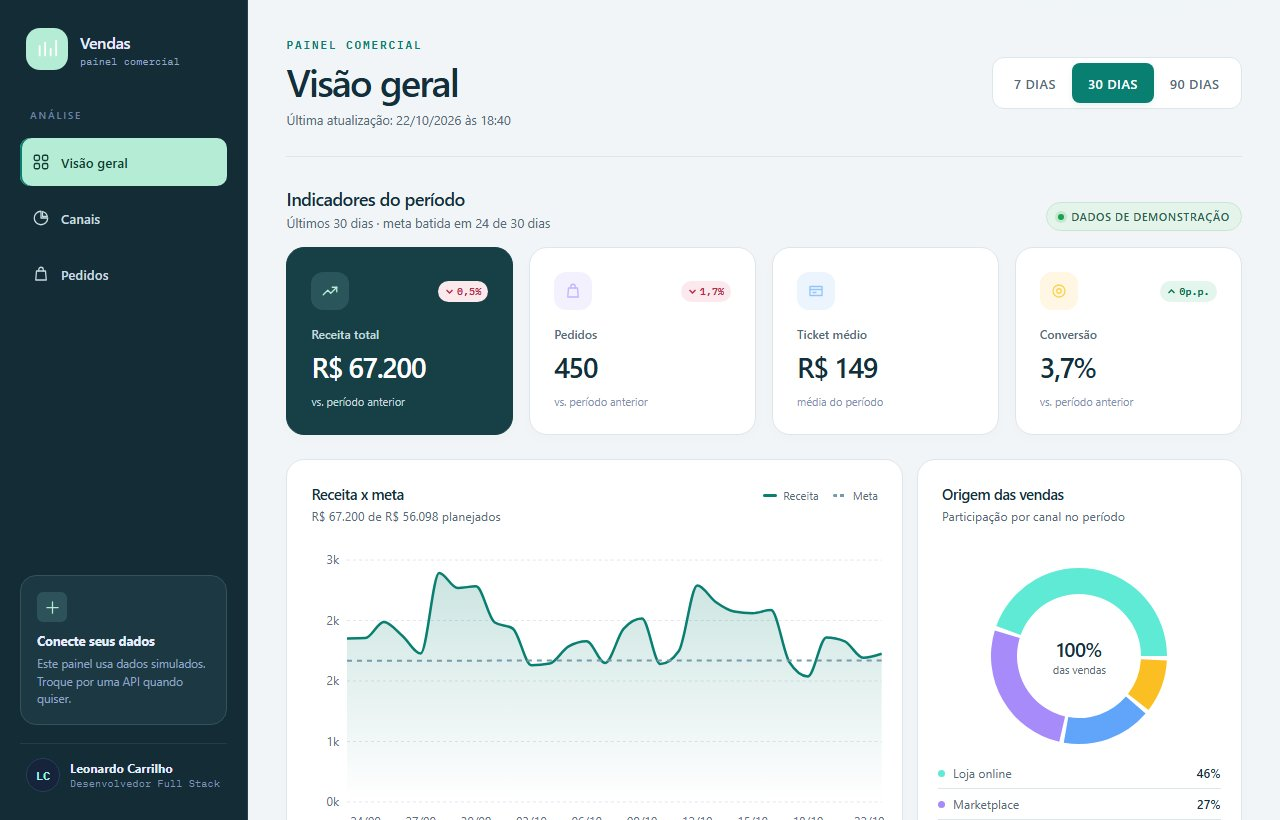
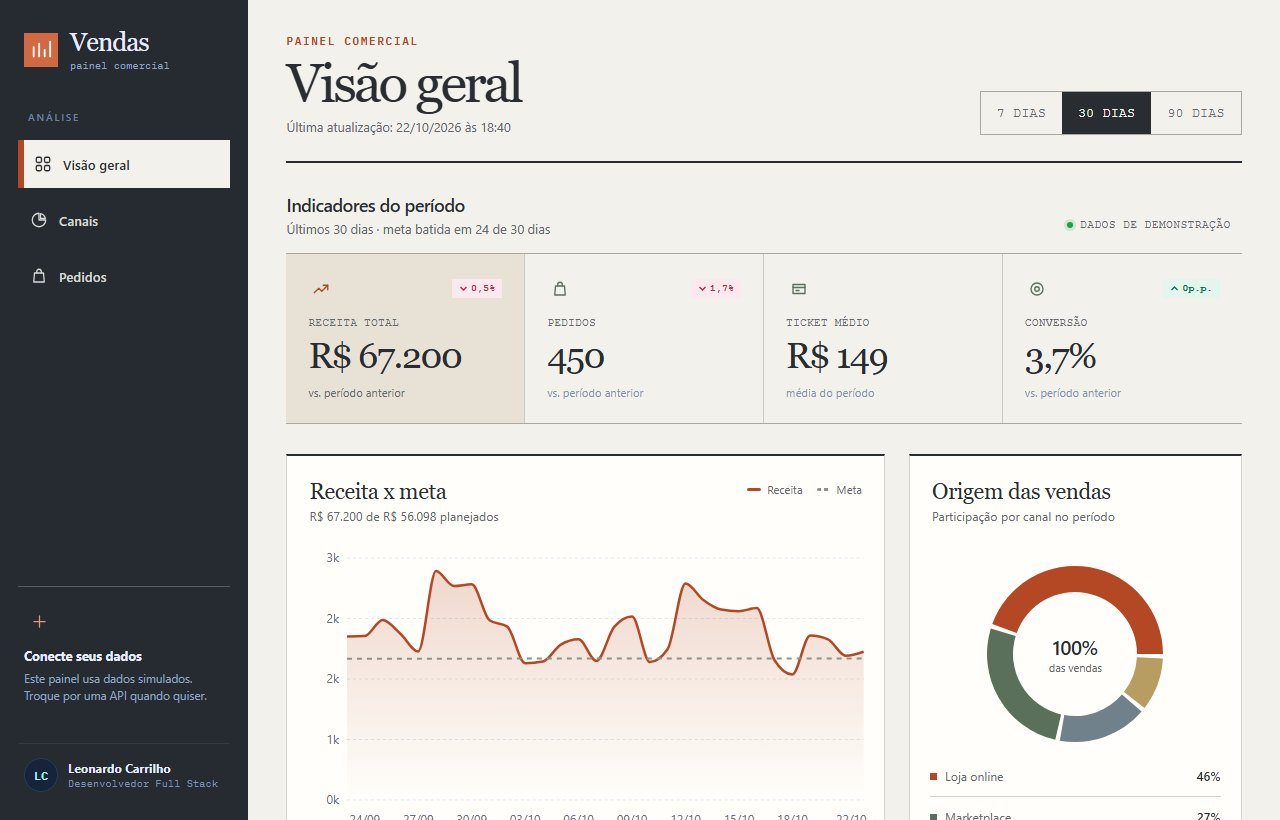
feat: criar identidade editorial própria
Refs #8

diff --git a/src/editorial.css b/src/editorial.css
@@ -1,0 +1,60 @@
+/* Editorial portfolio: paper, ink and oversized serif typography. */
+:root { --brand:#234d3c; --brand-dark:#163b2b; --bg-soft:#e7e7d9; --line:#bdbfb0; --muted:#5c655b; --focus-ring:#a43d28; }
+body { background:#f3f0e6; color:#252c25; }
+.site-nav,.site-nav.is-scrolled { position:sticky; inset:0 auto auto; width:100%; background:#f3f0e6f5; border:0; border-bottom:1px solid #bec2b6; border-radius:0; box-shadow:none; }
+.brand-mark { background:transparent; color:#234d3c; border:1px solid #234d3c; border-radius:0; }
+.site-nav .btn-brand { border-radius:0; background:transparent; color:#234d3c; border-bottom:1px solid; }
+.intro { background:#f3f0e6; color:#252c25; padding:68px 0 0; border-radius:0; overflow:visible; }
+.intro-layout { grid-template-columns:minmax(0,1.25fr) minmax(0,.8fr); align-items:end; gap:clamp(32px,5vw,80px); padding-bottom:56px; }
+.intro-status { border:0; border-radius:0; padding:0; background:none; color:#52614e; font-family:monospace; font-size:.7rem; text-transform:uppercase; letter-spacing:.06em; }
+.intro-name { margin:38px 0 24px; font-family:monospace; font-size:.75rem; text-transform:uppercase; letter-spacing:.08em; }
+.intro-name span { color:#596555; }
+.intro h1 { color:#27342a; font-family:Georgia,"Times New Roman",serif; font-weight:400; font-size:clamp(3.3rem,6.8vw,6.5rem); line-height:.98; letter-spacing:-.065em; text-wrap:normal; }
+.intro h1 span { color:#234d3c; font-style:italic; }
+.intro-description { color:#505c4f; font-size:1rem; max-width:44ch; margin:30px 0; }
+.intro-primary { border-radius:0; background:#234d3c; color:#fff; box-shadow:none; min-height:52px; }
+.intro-primary:hover { color:white; background:#163b2b; transform:none; box-shadow:none; }
+.intro-secondary { color:#234d3c; border-bottom:1px solid #9da996; border-radius:0; }
+.intro-secondary:hover { color:#a43d28; }
+.intro-person,.intro-person small { color:#52614e; }
+.intro-avatar { border:0; border-radius:0; filter:grayscale(1); }
+.work-caption { color:#52614e; font-family:monospace; padding-block:12px; border-top:1px solid #94a18d; }
+.work-preview { border:0; border-radius:0; padding:22px; background:#d4dbc9; box-shadow:none; }
+.work-preview-link { background:none; color:#234d3c; padding:18px 0 0; }
+.work-note { border-color:#a8b29e; color:#354a36; font-family:monospace; font-size:.73rem; }
+.work-note-number { color:#a43d28; font-family:Georgia,serif; font-size:3.6rem; font-style:italic; }
+.work-note small { color:#52614e; }
+.intro-stack { color:#354a36; border-color:#a8b29e; font-family:monospace; font-size:.75rem; }
+.intro-stack>:first-child { color:#52614e; }
+#projects { background:#e7e8dd; }
+.section-title { font-family:Georgia,serif; font-size:clamp(2.7rem,4.5vw,4.4rem); font-weight:400; line-height:1.05; }
+.project-toolbar { border:0; border-block:1px solid #acb5a2; border-radius:0; background:none; padding:18px 0; }
+.project-filters button { border:0; border-radius:0; background:none; }
+.project-filters button[aria-pressed="true"] { background:#234d3c; }
+.projects-editorial { display:grid; gap:0; }
+.projects-editorial>.col-md-6 { width:100%; min-width:0; padding:36px 0; border-bottom:1px solid #acb5a2; }
+.project-card { display:grid; grid-template-columns:minmax(0,1.1fr) minmax(0,1fr); column-gap:40px; align-content:center; border:0; border-radius:0; background:none; box-shadow:none; }
+.project-card:hover { transform:none; box-shadow:none; border:0; }
+.project-card>* { grid-column:2; min-width:0; }
+.project-preview,.project-code-art { grid-column:1; grid-row:1/7; align-self:center; border:0; aspect-ratio:1.56; background:#d5dccb; }
+.project-preview { padding:16px; }
+.project-preview img { object-fit:contain; }
+.project-top { padding:0 0 14px; background:none; border-bottom:1px solid #acb5a2; gap:12px; }
+.project-icon { display:none; }
+.project-index { font-size:1.5rem; font-family:Georgia,serif; color:#a43d28; }
+.project-card h3 { font-family:Georgia,serif; font-size:clamp(1.9rem,3vw,2.8rem); font-weight:400; margin:18px 0 12px; }
+.project-text,.project-highlights,.project-tags { margin:0 0 18px; }
+.project-footer { padding:12px 0 0; border-color:#acb5a2; }
+.tag { background:transparent; border:0; border-radius:0; padding:3px 8px 3px 0; font-family:monospace; }
+.project-demo { border-radius:0; }
+.profile-card,.service-card,.skill-card,.edu-card,.contact-form { border-radius:0; box-shadow:none; }
+.service-card,.skill-card,.edu-card { border:0; border-top:1px solid #acb5a2; background:transparent; }
+.cta-card { background:#234d3c; color:#f3f0e6; border:0; border-radius:0; }
+.cta-content h2 { font-family:Georgia,serif; font-weight:400; color:#fff; }
+.cta-content p,.cta-note { color:#d3ddcd; }
+.cta-symbol { background:#f3f0e6; border-radius:0; color:#234d3c; }
+.cta-card .btn-light { background:#f3f0e6; color:#234d3c; border-radius:0; }
+@media(min-width:992px) { .projects-editorial>.col-md-6:nth-child(even) .project-card { grid-template-columns:minmax(0,1fr) minmax(0,1.1fr); } .projects-editorial>.col-md-6:nth-child(even) .project-card>* { grid-column:1; } .projects-editorial>.col-md-6:nth-child(even) .project-card>.project-preview,.projects-editorial>.col-md-6:nth-child(even) .project-card>.project-code-art { grid-column:2; } }
+@media(max-width:991px) { .intro-layout { grid-template-columns:minmax(0,1fr); gap:42px; } .intro-work { max-width:none; width:100%; } .intro { padding-top:42px; } .project-card { gap:24px; } }
+@media(max-width:767px) { .project-card { display:flex; gap:0; } .project-preview,.project-code-art { margin-bottom:22px; width:100%; } .project-top { margin-bottom:0; } .intro h1 { font-size:clamp(3.2rem,12vw,5.8rem); } .work-preview { padding:14px; } .intro-name { margin-top:26px; } .project-filters { display:flex; flex-wrap:wrap; } .section { padding-block:56px; } }
+@media(max-width:380px) { .intro h1 { font-size:3.1rem; } .intro-status { font-size:.62rem; } }

diff --git a/src/components/Projects.jsx b/src/components/Projects.jsx
@@ -34,7 +34,7 @@ export default function Projects() {
           </div>
           <span className="project-count" role="status">{projects.length} {pt ? "projetos" : "projects"}</span>
         </div>
-        <div className="row g-4">
+        <div className="projects-editorial">
           {projects.map((project, index) => {
             const copy = t.projects.items[project.id];
             const repoName = project.repo.replace(/^https?:\/\/github\.com\//, "");
@@ -45,7 +45,7 @@ export default function Projects() {
                   <article className="project-card h-100">
                     {project.demo ? (
                       <a className="project-preview" href={project.demo} target="_blank" rel="noreferrer" aria-label={`${t.projects.demo}: ${copy.title}`}>
-                        <img src={`${import.meta.env.BASE_URL}projects/${project.id}.jpg?v=20261028-design`} alt={pt ? `Prévia de ${copy.title}` : `Preview of ${copy.title}`} width="1280" height="820" loading="lazy" decoding="async" />
+                        <img src={`${import.meta.env.BASE_URL}projects/${project.id}.jpg?v=20261028-editorial`} alt={pt ? `Prévia de ${copy.title}` : `Preview of ${copy.title}`} width="1280" height="820" loading="lazy" decoding="async" />
                       </a>
                     ) : (
                       <div className="project-code-art" aria-hidden="true"><i className="bi bi-braces" /><strong>{project.id === "api-tarefas" ? "tasks / REST" : "finance / REST"}</strong><span>{project.tech.join(" · ")}</span></div>

diff --git a/src/components/Hero.jsx b/src/components/Hero.jsx
@@ -21,7 +21,7 @@ export default function Hero() {
         <div className="intro-work">
           <div className="work-caption"><span>{pt ? "EM FOCO / PROJETO 01" : "IN FOCUS / PROJECT 01"}</span><span>React · Recharts</span></div>
           <a className="work-preview" href="https://leonardocarrilho.github.io/dashboard-vendas/" target="_blank" rel="noreferrer" aria-label={pt ? "Abrir demonstração do Dashboard de Vendas" : "Open Sales Dashboard demo"}>
-            <img src={`${import.meta.env.BASE_URL}projects/dashboard-vendas.jpg?v=20261028-design`} alt={pt ? "Dashboard de Vendas com indicadores e gráficos" : "Sales Dashboard with metrics and charts"} width="1280" height="820" fetchPriority="high" />
+            <img src={`${import.meta.env.BASE_URL}projects/dashboard-vendas.jpg?v=20261028-editorial`} alt={pt ? "Dashboard de Vendas com indicadores e gráficos" : "Sales Dashboard with metrics and charts"} width="1280" height="820" fetchPriority="high" />
             <span className="work-preview-link">{pt ? "Ver projeto ao vivo" : "View live project"} <i className="bi bi-arrow-up-right" aria-hidden="true" /></span>
           </a>
           <div className="work-note"><span className="work-note-number">{String(site.projects.length).padStart(2, "0")}</span><span>{pt ? "projetos para explorar" : "projects to explore"}<small>{pt ? "Da interface ao banco de dados." : "From interface to database."}</small></span><i className="bi bi-braces" aria-hidden="true" /></div>

diff --git a/src/main.jsx b/src/main.jsx
@@ -5,6 +5,7 @@ import "bootstrap/dist/css/bootstrap.min.css";
 import "bootstrap-icons/font/bootstrap-icons.css";
 import "./styles/global.css";
 import "./styles/modern.css";
+import "./editorial.css";
 import App from "./App.jsx";
 
 ReactDOM.createRoot(document.getElementById("root")).render(

diff --git a/docs/DESIGN.md b/docs/DESIGN.md
@@ -1,0 +1,11 @@
+# Direção visual
+
+Portfólio editorial: contraste entre tipografia serifada e técnica, projetos com composições de estudos de caso, navegação discreta.
+
+A direção escolhida é autoral e editorial: tipografia marcante, composições assimétricas e identidade própria para este projeto. Preserve a relação entre o conteúdo e sua apresentação ao criar novas telas.
+
+A camada editorial.css complementa os estilos funcionais e é carregada por último. Use as cores, espaçamentos e tipos definidos nela; evite introduzir estilos de outro projeto sem uma razão de uso.
+
+Antes de enviar mudanças visuais, confira desktop e celular com capturas reais, incluindo as seções abaixo da primeira dobra. Valide larguras de 320, 390, 768 e 1440 px, foco visível, teclado, contraste, formulários e preferência por movimento reduzido. Preserve o tema escuro quando disponível.
+
+Mudanças visuais seguem o mesmo fluxo: issue, branch, testes, commit e PR com referência à issue. Deploy depende dos checks e da integração do PR.

diff --git a/AGENTS.md b/AGENTS.md
@@ -16,3 +16,5 @@ Aplicam-se a qualquer agente/modelo e a todas as alterações deste repositório
 - Antes de publicar, revisar diff e artefato: segredos, mapas de fonte, arquivos internos, páginas administrativas, endpoints, CORS, autenticação, permissões do CI e headers/HTTPS no domínio real.
 - Documentar o que foi testado, o que depende de hospedagem/conta externa e o que não se aplica. Não declarar configuração externa concluída sem verificar.
 - Ao editar prosa, aplicar Humanizer quando disponível, preservando precisão técnica.
+
+- Antes de alterar interfaces, consultar docs/DESIGN.md e preservar a identidade visual própria do projeto. Revisar capturas reais em desktop e celular, além dos testes automatizados.
